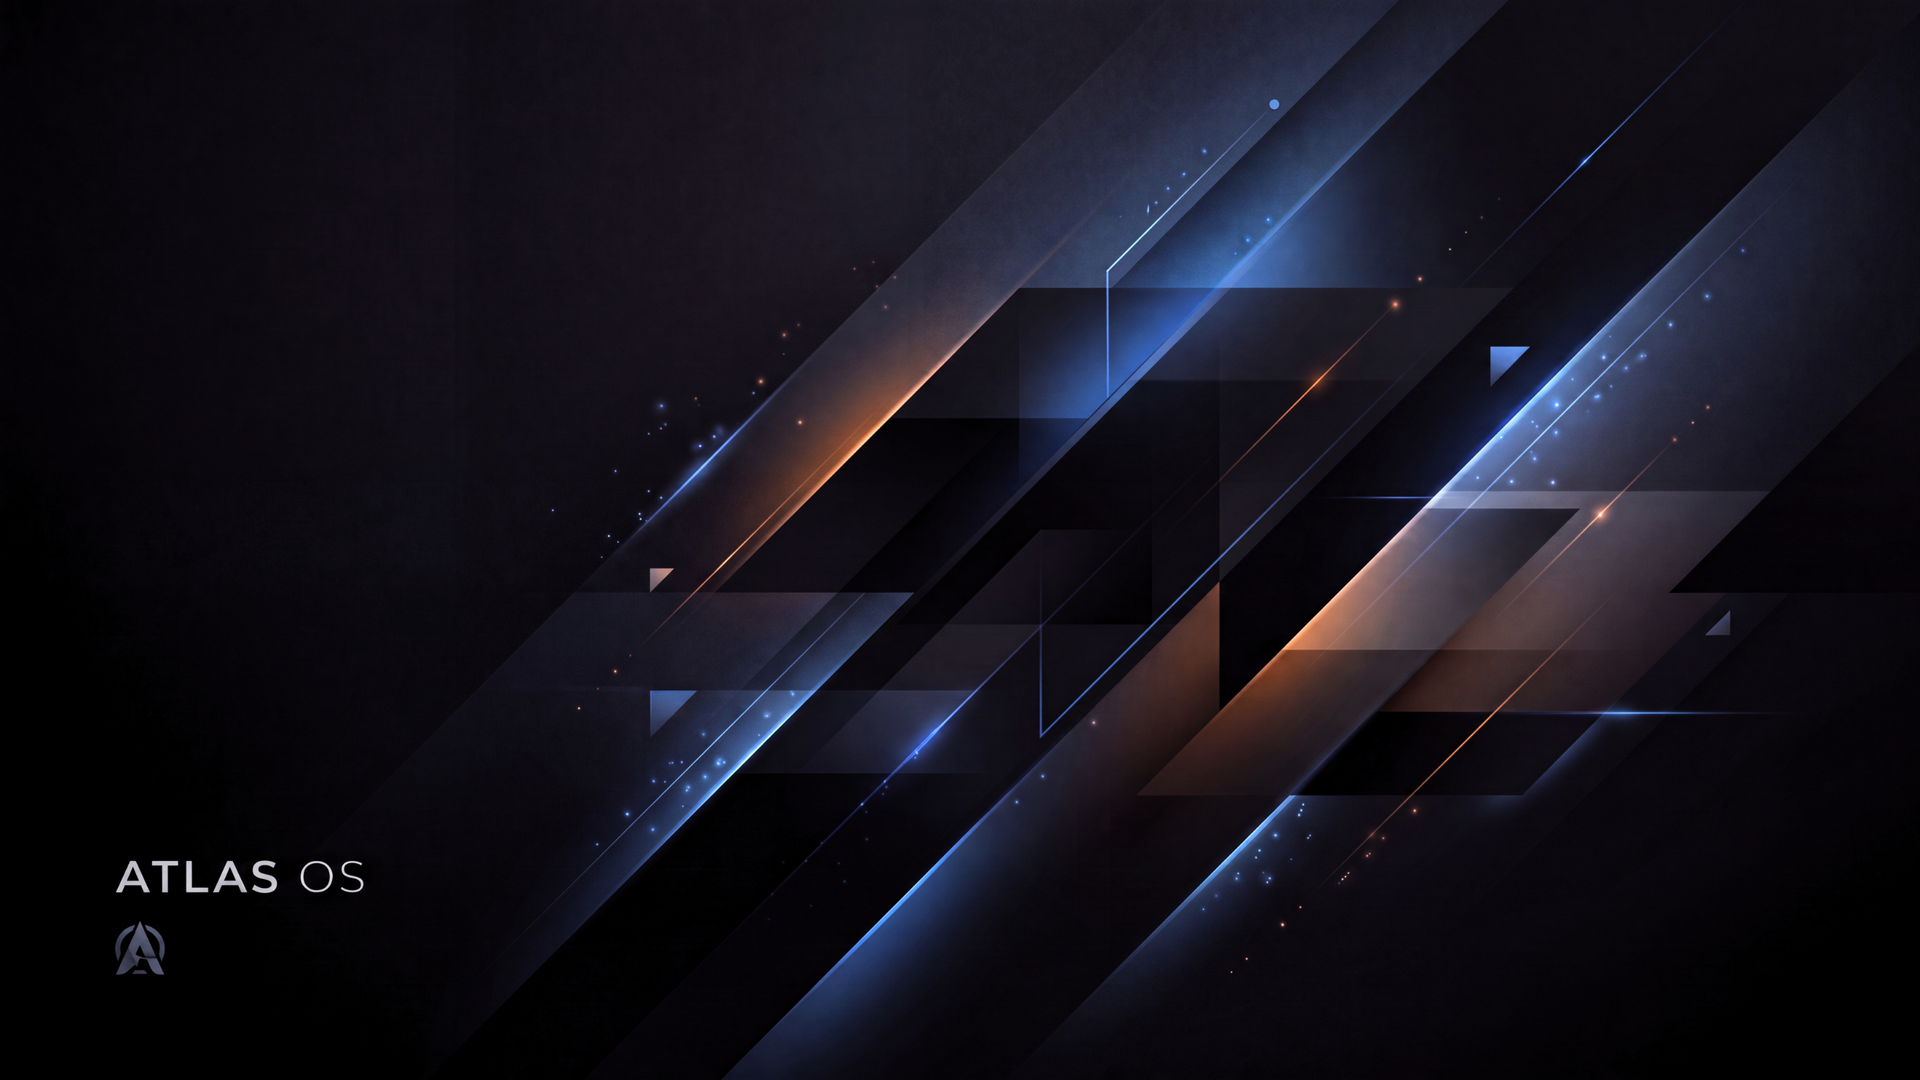
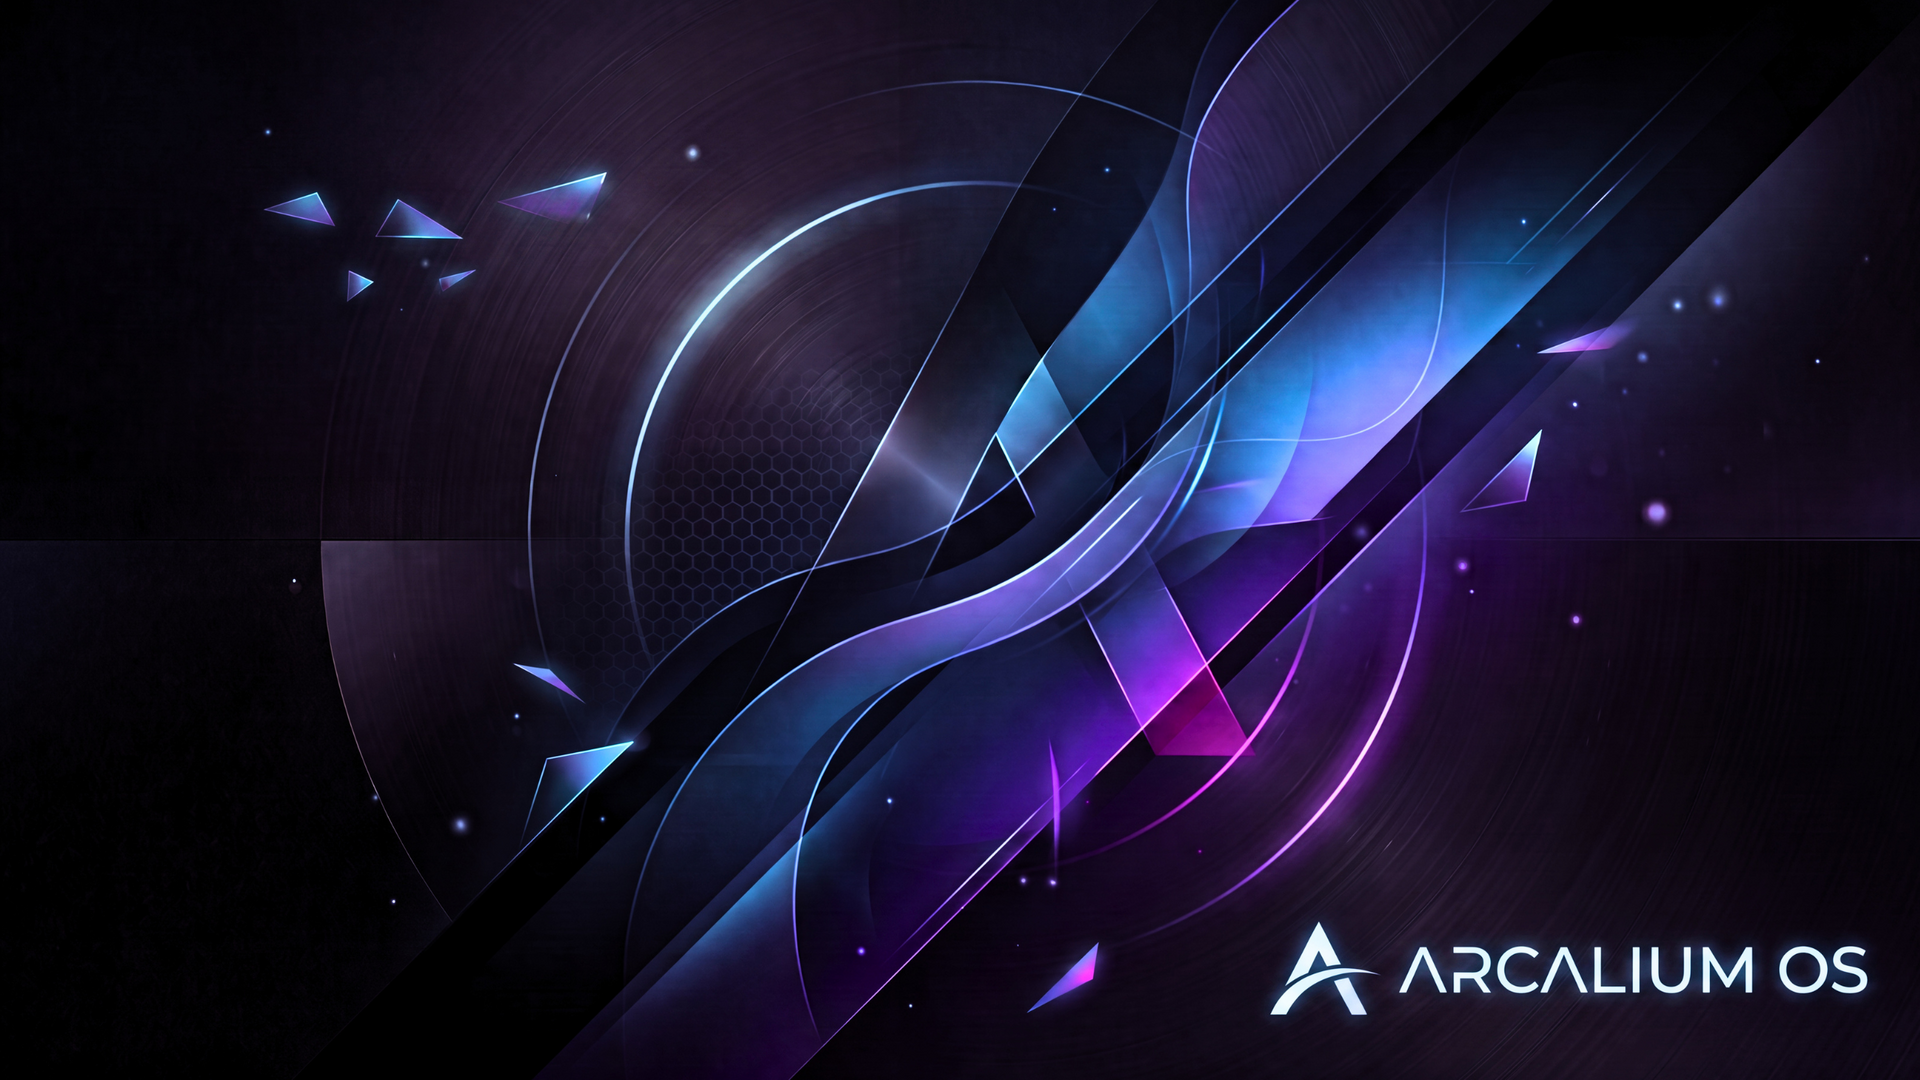
Ship new Arcalium default wallpaper; remove obsolete Atlas masters.
Use assets/arcaliumos.png as the sole master, install as arcalium-default.png, and drop atlas-default.png / atlas-wallpaper-master.png so SDDM and set-wallpaper have one default.

diff --git a/scripts/apply-triangle-branding.py b/scripts/apply-triangle-branding.py
@@ -132,8 +132,8 @@ def main() -> None:
     master.resize((2560, 1440), Image.Resampling.LANCZOS).save(
         OUT_WALL / "atlas-wallpaper-1440p.png", optimize=True
     )
-    # Compatibility alias used by older hooks
-    shutil.copy2(wall_original, OUT_WALL / "atlas-default.png")
+    # Native default used by SDDM + set-wallpaper fallbacks
+    shutil.copy2(wall_original, OUT_WALL / "arcalium-default.png")
 
     # Plasma wallpaper plugin images
     master.resize((1920, 1080), Image.Resampling.LANCZOS).save(

diff --git a/docs/ARCALIUM_REBRAND_PLAN.md b/docs/ARCALIUM_REBRAND_PLAN.md
@@ -65,7 +65,7 @@ Slogan and meta title/description are fixed assets (see header). Apply slogan on
 | **Env prefix** | `ATLAS_*` in **~60** `.py`/`.sh`/`.conf`/`.yml` files | `ATLAS_COMMAND_CENTRE_URL`, `ATLAS_DATA`, `ATLAS_ALLOW_UNSIGNED`, … |
 | **os-release** | `NAME="Atlas OS"`, `ID=atlas`, `HOME_URL=https://atlas-os.local/` | `config/includes.chroot/etc/os-release` |
 | **Live hostname** | `hostname=atlas-live`, `username=atlas` | `auto/config` `--bootappend-live` |
-| **Wallpaper / icons** | Plasma package `wallpapers/Atlas`; backgrounds `…/backgrounds/atlas/atlas-*.png`; icons `atlas.png` / `atlas-services.*` | `config/includes.chroot/usr/share/wallpapers/Atlas/`, `assets/atlas-default.png`, `assets/atlas-wallpaper-master.png` |
+| **Wallpaper / icons** | Plasma package `wallpapers/Atlas`; backgrounds `…/backgrounds/atlas/` (`arcalium-default.png` + sized `atlas-wallpaper-*.png`); icons `atlas.png` / `atlas-services.*` | `config/includes.chroot/usr/share/wallpapers/Atlas/`, `assets/arcaliumos.png` |
 | **SDDM** | Breeze theme + Atlas background via hook; config `10-atlas.conf` | `config/includes.chroot/etc/sddm.conf.d/10-atlas.conf`; hook `9030-atlas-wallpaper` |
 | **Plymouth** | **Not customised** (stock) | noted in `docs/BACKLOG.md` / `product.md` §53.2 |
 | **Calamares branding** | Component `atlas`; product strings “Atlas OS” / “Atlas” | `calamares/branding/atlas/`, packaged via `atlas-branding` → `/usr/share/atlas/calamares/` |
@@ -110,7 +110,7 @@ Establish slogan, meta tags, logo/wallpaper ownership, and where new Arcalium as
 
 | Area | Paths |
 |------|--------|
-| Source assets | `assets/atlas-default.png`, `assets/atlas-wallpaper-master.png` |
+| Source assets | `assets/arcaliumos.png` (sole master; installed as `arcalium-default.png`) |
 | Packaged logo | `packages/atlas-command-centre/usr/lib/atlas/atlas-logo.png`, launcher `…/launcher/logo.png` |
 | Wallpaper package | `config/includes.chroot/usr/share/wallpapers/Atlas/metadata.json` + `contents/images/*` |
 | Backgrounds | `config/includes.chroot/usr/share/backgrounds/atlas/atlas-*.png` |
